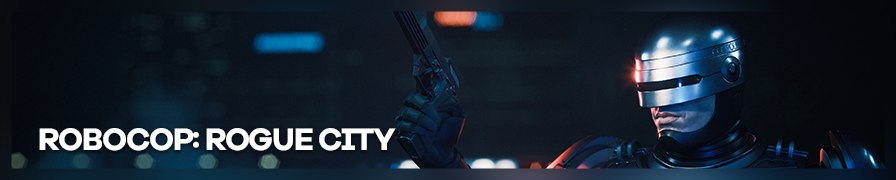
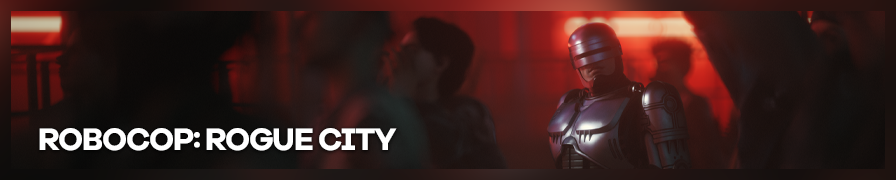
Updated robocop guide (thanks ItsYFP!)

diff --git a/markdown/GameGuides/RoboCopRogueCity.md b/markdown/GameGuides/RoboCopRogueCity.md
@@ -1,62 +1,51 @@
-![RoboCop: Rogue City](Images\robocop_rogue_city_header.png "Shot by Dogmod"){.shadowed .autosize}
+![RoboCop: Rogue City](Images\robocop_rogue_city_header.png "Shot by ItsYFP"){.shadowed .autosize}
+
 ## Summary
+
 Feature | Supported
 --|--
 Vanilla Photo Mode | No
-Hotsampling | Yes (use windowed fullscreen)
-DSR | Yes
-Custom Aspect Ratios | Yes  
+Hotsampling | Yes (use windowed mode)
+DSR | Probably
+Custom Aspect Ratios | Yes
 Reshade | Yes
 Ansel | No
 Graphics API | DirectX 12
-Game version |  <font face="Stores">S</font> 1.1.1.0
-
-@alert neutral  
-This guide is for an Unreal Engine 5 game that can use the [Universal Unreal Unlocker](https://opm.fransbouma.com/uuuv5.htm).  
-@end
-
+Game version | <font face="Stores">S</font> 1.7.0.0
+ 
 ## Tools
 
-* [Unreal Engine 5 Unlocker](https://opm.fransbouma.com/uuuv5.htm)  
-**Features**: Camera, HUD toggle, Hotsampling, Console, Timestop, Slowmo, Custom lights, Post-processing 
+* [Unreal Engine Unlocker v5.4.11 or higher](https://www.patreon.com/posts/83234146) (Not free, available on Patreon)  
+**[Features](https://opm.fransbouma.com/uuuv5.htm)**: Camera control, FoV control, HUD toggle, game speed, pause/timestop, hotsampling, post processing, camera paths, pose tools
 
-All features are tested and working on the release version of the game (<font face="Stores">S</font> 1.1.1.0)
+   
+## Posing:
+RoboCop specifically does not have a player model available during normal gameplay. However, you can use it through the "Experimental Options" in the UUU Interface.
 
-## IGCS Depth of Field quirks
+**How to:**
 
-Generally, IGCS Depth of Field works great with RoboCop. However, achieving extreme levels of DOF requires inputting 
-**Max. bokeh size** manually in Reshade. By default, **Max. bokeh size** is capped at 10.000. For RoboCop this 
-may not be enough in some cases. To input a bigger value, double click the **Max. bokeh size** number and input whatever
-value you need. 
+- Enable the Free Camera (`Insert`)
+- Open the in-game UUU Interface (`CTRL`+`Insert`)
+- Click on RoboCop (you will only see his 2 arms) to get his model show up in the list.
+- Now click on "Experimental Options" in the UUU interface, just below the "Show Pose Editor" button.
+- Select **SK_RoboCop** in "Skeletal Mesh" to have his model available anywhere you want, just be aware that some bones in the "Bone Tree" seem to use a different name (for example, the "Head" is actually `spine_02`). 
 
-When using upscaling with IGCS Depth of Field, images may turn out blurry. To avoid this,
-set **Number of frames to wait per frame** to 5. This will increase the time it takes to complete a shot, but
-the focal point will be correct.
+You can also access his model and use poses during (specific) cutscenes. There are 2 types of cutscenes happening. 
 
-## Known issues
+- **Cinematics with Black Bars**: Here you can access his model and move it around but not pose it. 
+- **Conversations with NPCs**: In these you are also able to access his model, move it around but also be able to pose it. If you want to have RoboCop in any city location available in your screenshot, you can use these **Conversation with NPCs** too, the city as a whole is fully accessible and rendered in free camera.
 
-### Arm rig visible when camera is active
+**How to:**
 
-When hiding the HUD using Unreal Engine 5 Unlocker, arm rig remains visible in the scene.
+- Play a story mission
+- Get into conversations with an NPC
+- Pause the game (`Numpad 0`)
+- Enable the Free Camera (`Insert`)
+- Open the in-game UUU Interface (`CTRL`+`Insert`)
+- Click on RoboCop to get his model show up in the list
+- Click on "Show Pose Editor"
 
-To fix this, check **Toggle player visibility** in **Misc. adjustments** in Unreal Engine 5 Unlocker.
+## Useful Links
 
-### Possible crash when issuing a ticket
-
-If Unreal Engine 5 Unlocker is injected when issuing a car ticket in game (part of Serve and Protect side quest),
-the game may throw an exception and crash.
-
-Reloading a level from the beginning may solve the issue (using saves the game creates at the beginning of every mission).
-
-If you don't want to reload, this can somewhat be avoided by closing Unreal Engine 5 Unlocker before issuing the ticket. 
-The game will not crash right away, but injecting Unreal Engine 5 Unlocker later will cause the exception again. You can ignore the window and reach
-a checkpoint to save the game, but camera tools will not work and pressing **OK** in the exception window will crash the game.
-
-Issuing a ticket, saving, then reopening the game and injecting Unreal Engine 5 Unlocker should not crash the game.
-
-Rarely, this crash may also occur when reinjecting Unreal Engine 5 Unlocker.
-
-### Camera in cutscenes
-
-Currently, you can't control the camera in cutscenes. However, camera control does work in the main menu 
-and can be used for photos with full Robocop model.
+* [PC Gaming Wiki](https://www.pcgamingwiki.com/wiki/RoboCop:_Rogue_City)
+* [Nexus Mods](https://www.nexusmods.com/games/robocoproguecity)
